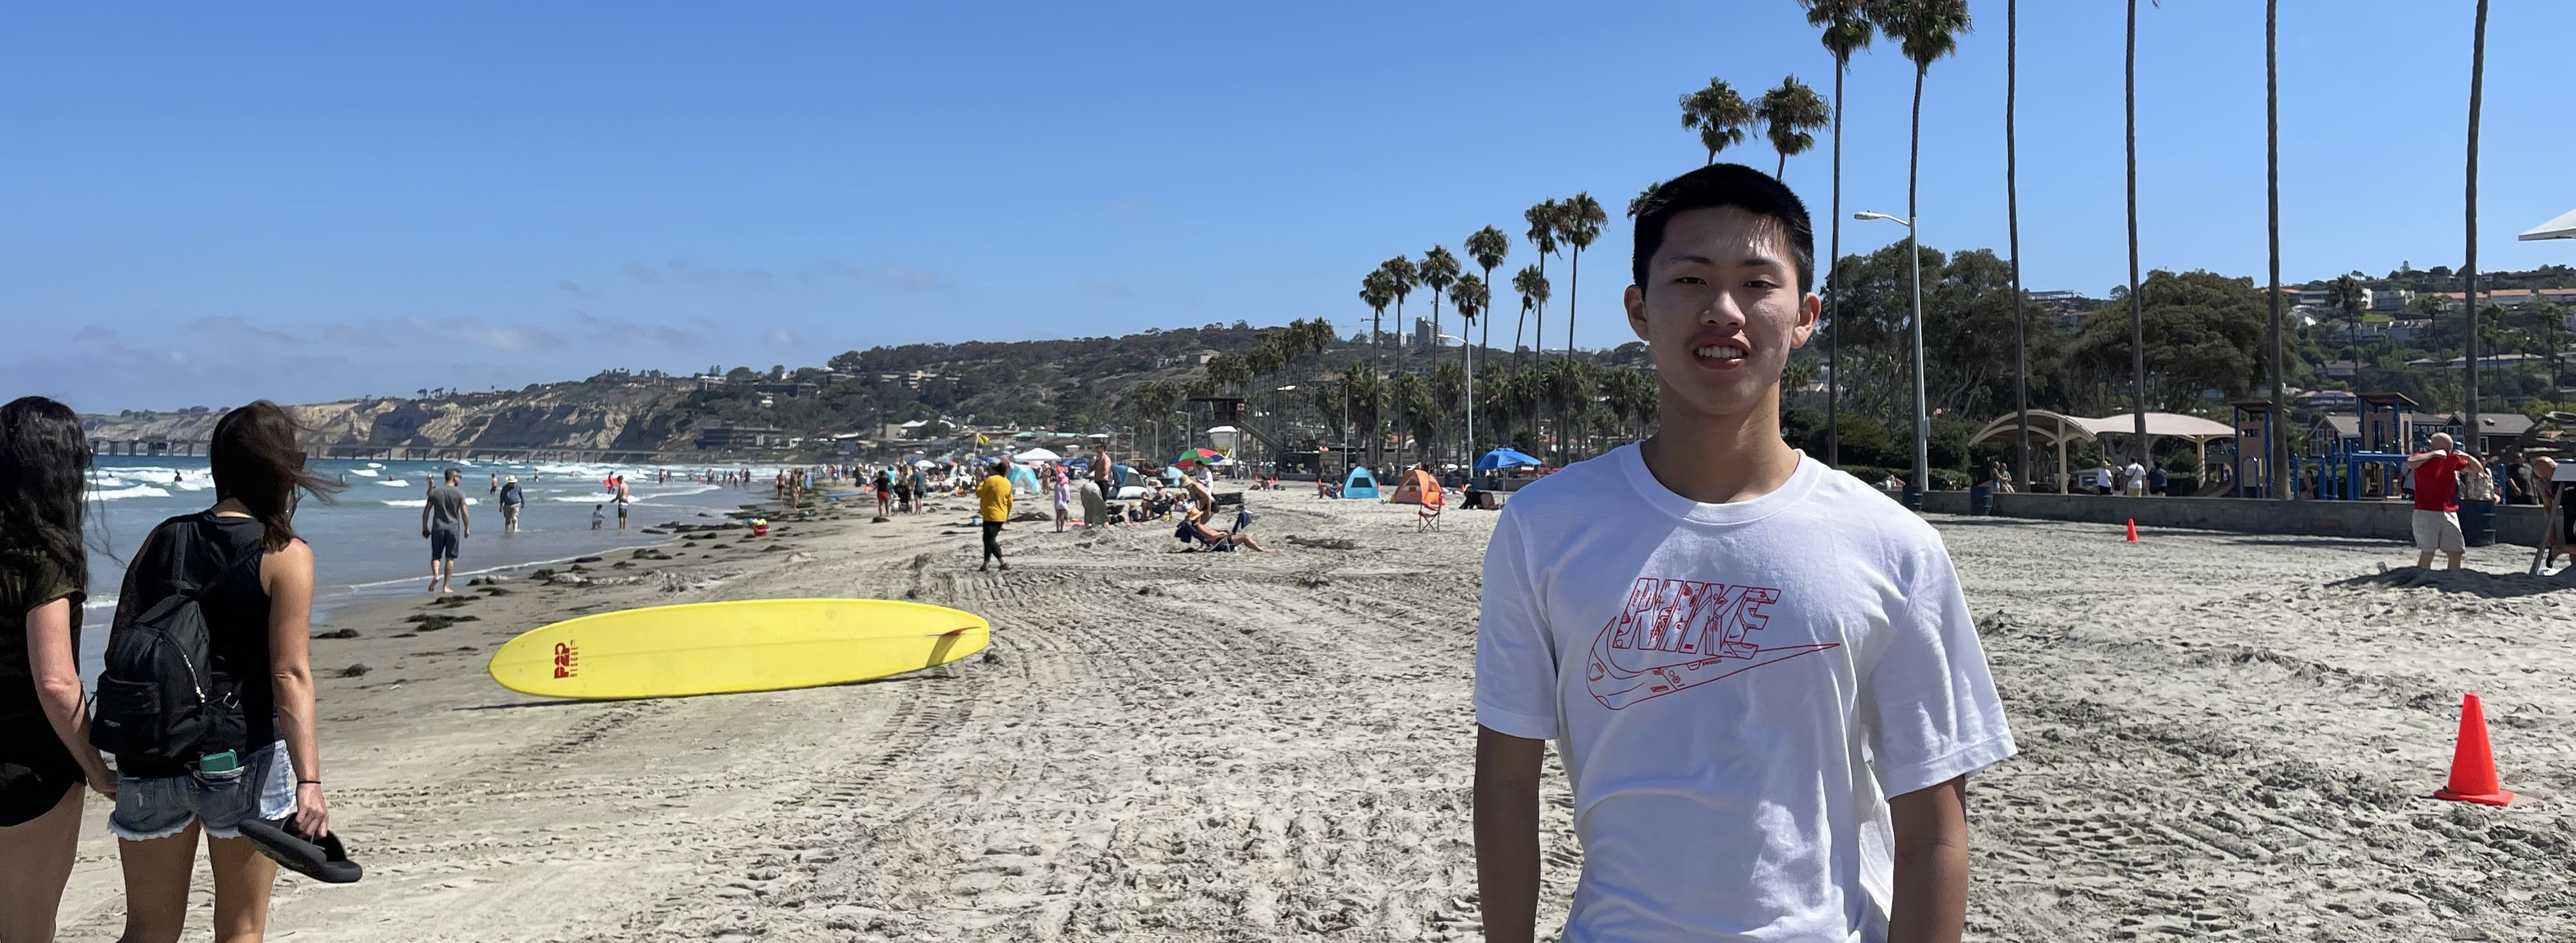
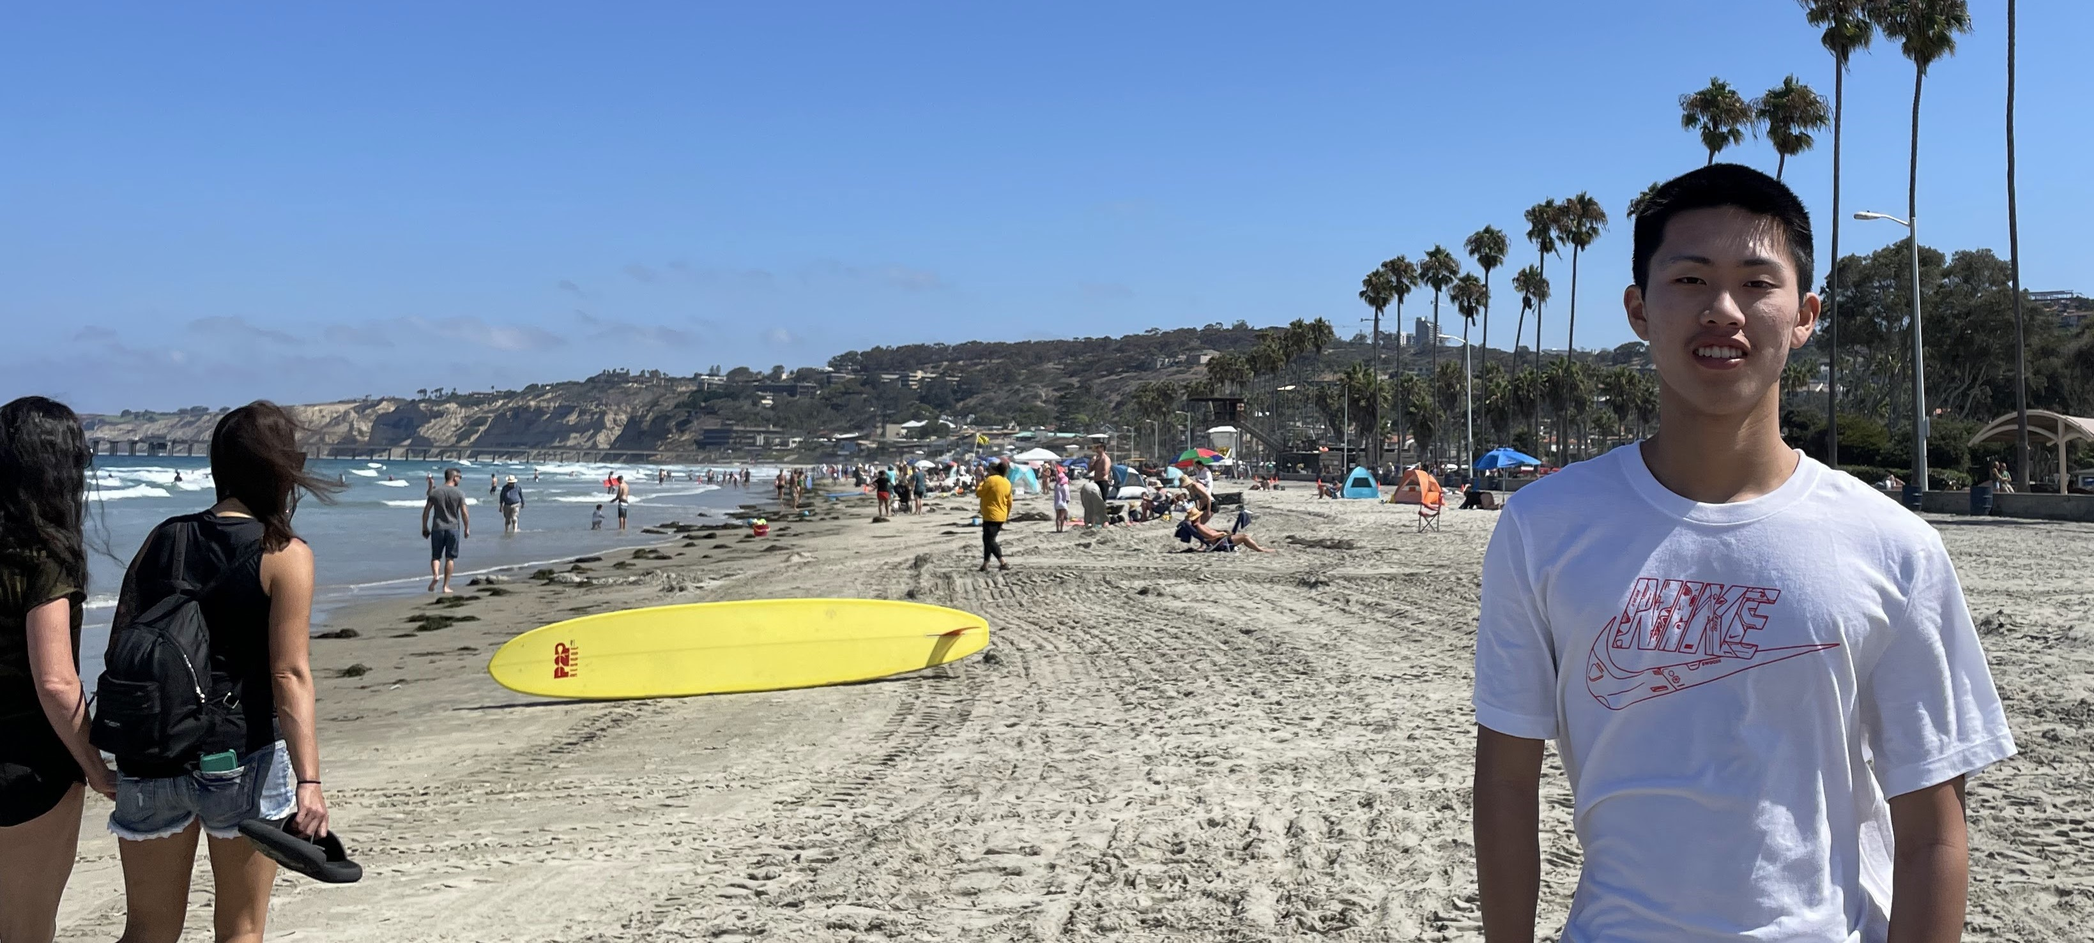
fix about bg img

diff --git a/src/index.css b/src/index.css
@@ -293,7 +293,9 @@ code {
   padding-bottom: 4rem;
   padding-left: 15% !important;
   background-image: url(./Assets/beach2.jpg);
-  background-size: 100%;
+  background-size: cover;
+  background-repeat: no-repeat;
+  background-position: right;
 }
 
 .about-heading-text {
